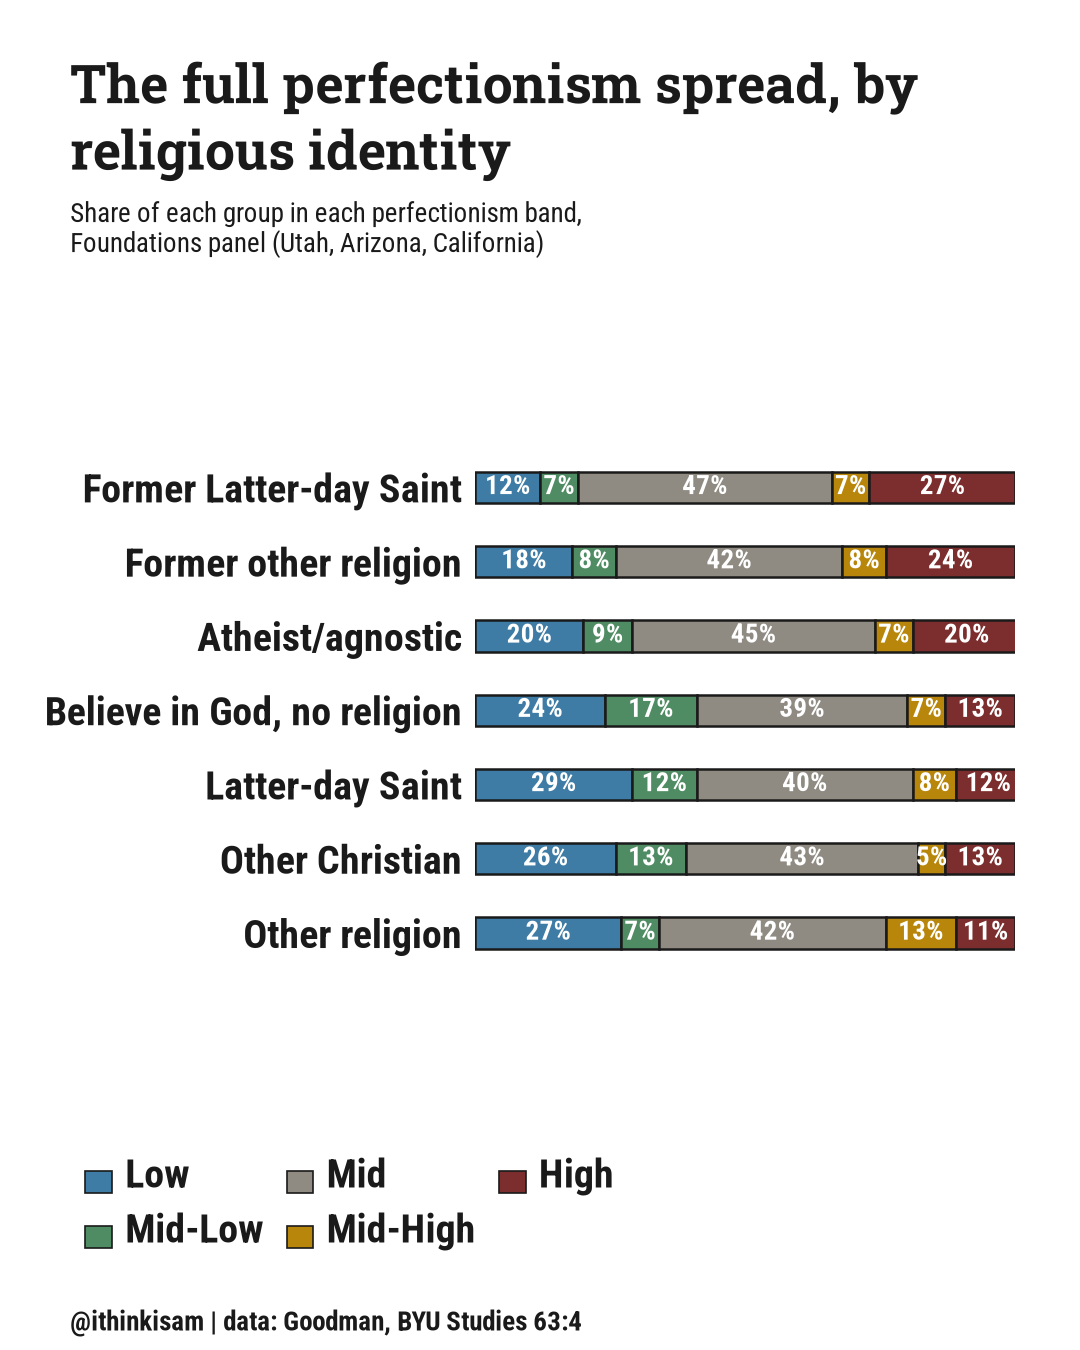
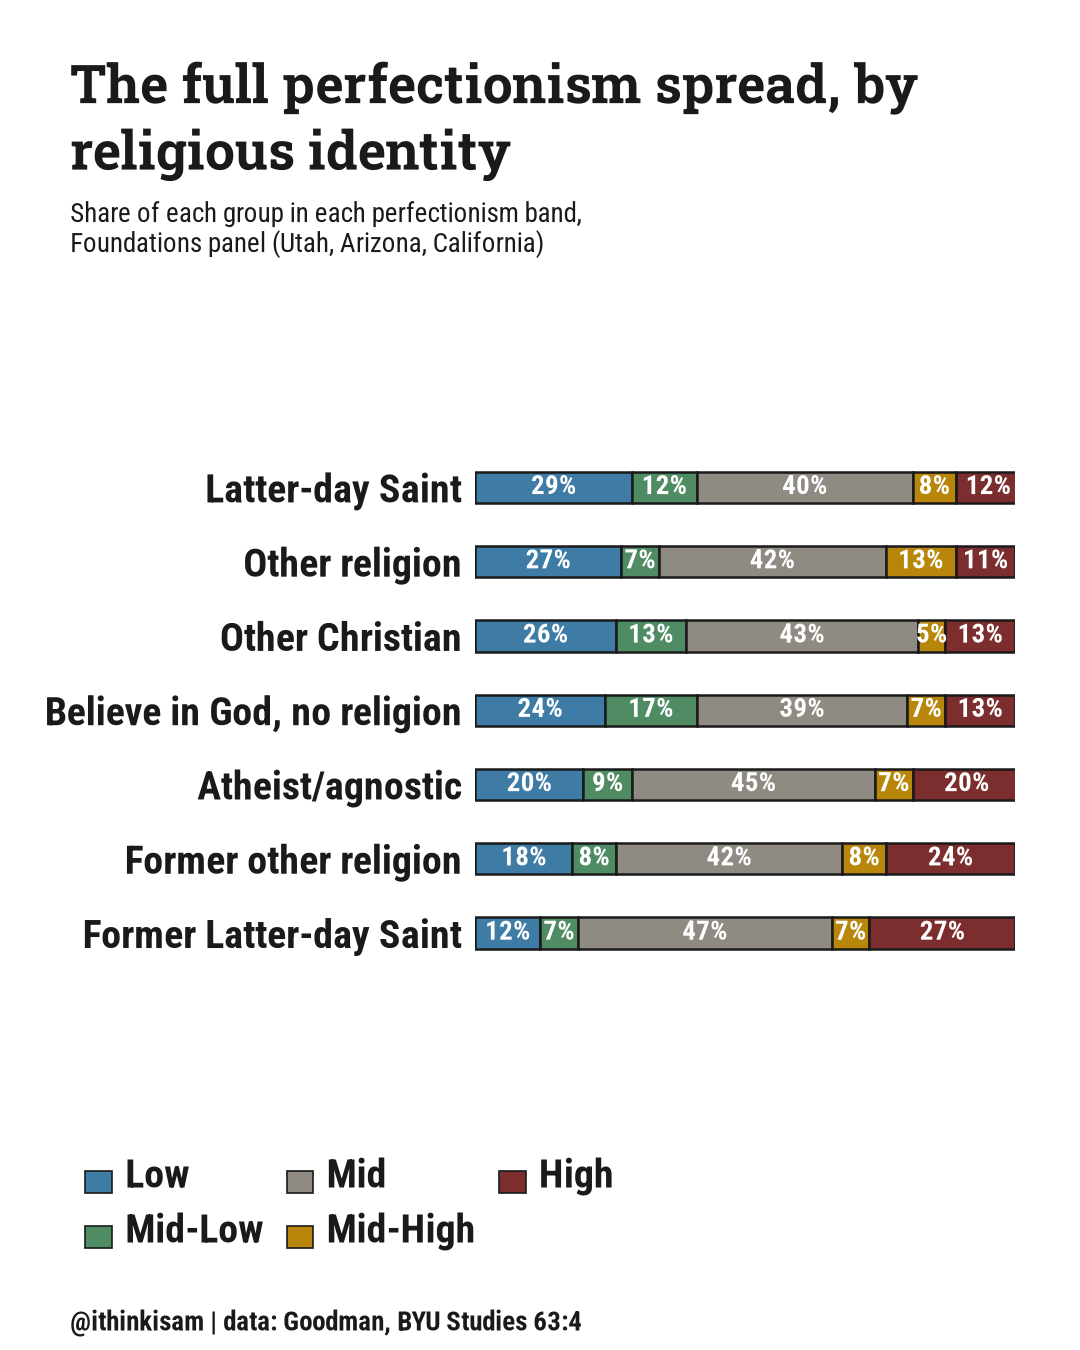
Reorder perfectionism-distribution chart, add low-perfectionism bar
perfectionism-distribution-by-group.png: reordered as one continuous
ranking by "Low" share, descending - Latter-day Saint (29%) at top down
to Former Latter-day Saint (12%) at bottom - instead of the pipeline's
usual sort_groups tiering, per request.

New chart, low-perfectionism-by-group.png: the "% Low toxic
perfectionism" counterpart to the existing high-perfectionism-by-group
chart, same row colors and sort_groups ordering, sourced from the same
Figure 1 transcription.

diff --git a/src/lib/study-graphics.ts b/src/lib/study-graphics.ts
@@ -147,6 +147,21 @@ function perfectionismByGroupGraphic(): Graphic {
   };
 }
 
+function lowPerfectionismByGroupGraphic(): Graphic {
+  const { rows } = religionPerfectionismData.charts["low-perfectionism-by-group"];
+  const alt = rows.map((r) => `${r.label} ${r.pct}%`).join(", ");
+  return {
+    title: "Low toxic perfectionism, by religious group",
+    description:
+      "Share of youth in the low-toxic-perfectionism category by religious affiliation, from the Foundations longitudinal panel (Utah, Arizona, California).",
+    imageSrc:
+      "/study-graphics/byu-studies-63-4-religion-and-perfectionism/low-perfectionism-by-group.png",
+    width: 1080,
+    height: 1350,
+    alt: `Bar chart: share of youth in the low-toxic-perfectionism category, by religious group. ${alt}.`,
+  };
+}
+
 function perfectionismDistributionByGroupGraphic(): Graphic {
   const { rows, segments } = religionPerfectionismData.charts[
     "perfectionism-distribution-by-group"
@@ -240,6 +255,7 @@ const RAW_STUDY_GRAPHICS: StudyGraphicsEntry[] = [
     studySlug: "byu-studies-63-4-religion-and-perfectionism",
     graphics: [
       perfectionismByGroupGraphic(),
+      lowPerfectionismByGroupGraphic(),
       perfectionismDistributionByGroupGraphic(),
       introjectedMotivationGraphic(),
     ],

diff --git a/scripts/study-graphics/byu-studies-63-4-religion-and-perfectionism/render_charts.py b/scripts/study-graphics/byu-studies-63-4-religion-and-perfectionism/render_charts.py
@@ -1,6 +1,6 @@
-"""Renders the three study graphics for Goodman's "Religion and
-Perfectionism" (BYU Studies Quarterly 63:4, 2024) - a high-toxic-
-perfectionism-by-religious-group magnitude bar, the same study's full
+"""Renders the four study graphics for Goodman's "Religion and
+Perfectionism" (BYU Studies Quarterly 63:4, 2024) - high- and low-toxic-
+perfectionism-by-religious-group magnitude bars, the same study's full
 Low-through-High perfectionism-distribution stack (its Figure 1), and a
 high- vs. low-perfectionism introjected-motivation bar.
 
@@ -80,6 +80,20 @@ def main() -> None:
         fonts=fonts,
     )
 
+    low_groups = {r["label"]: r["pct"] for r in DATA["charts"]["low-perfectionism-by-group"]["rows"]}
+    render_magnitude_bar(
+        rows=sort_groups(list(low_groups), lambda label: low_groups[label]),
+        values=low_groups,
+        highlight_rows=None,
+        row_colors=ROW_COLORS,
+        title="Low toxic perfectionism, by religious group",
+        subtitle="Share of youth in the low-toxic-perfectionism category,\nFoundations panel (Utah, Arizona, California)",
+        caption_paragraphs=[],
+        handle=HANDLE,
+        out_path=OUT_DIR / "low-perfectionism-by-group.png",
+        fonts=fonts,
+    )
+
     # Segment colors for the full Low-through-High distribution stack
     # (Figure 1 in the source article). A caller-chosen ordinal ramp, not
     # religious-group identity colors (segments are perfectionism bands,
@@ -98,7 +112,12 @@ def main() -> None:
     }
     SEGMENT_TEXT_COLORS = {seg: "#FFFFFF" for seg in segment_order}
     render_ordinal_stack(
-        rows=sort_groups(list(dist), lambda label: dist[label]["High"]),
+        # Ordered by "Low" descending, not this pipeline's usual
+        # sort_groups (which pins "Other X" catch-alls to the bottom
+        # regardless of value) - a specific, requested reading of this
+        # chart as one continuous ranking from Latter-day Saint's 29% low-
+        # perfectionism rate down to Former Latter-day Saint's 12%.
+        rows=sorted(dist, key=lambda label: -dist[label]["Low"]),
         segment_order=segment_order,
         segment_colors=SEGMENT_COLORS,
         segment_text_colors=SEGMENT_TEXT_COLORS,
